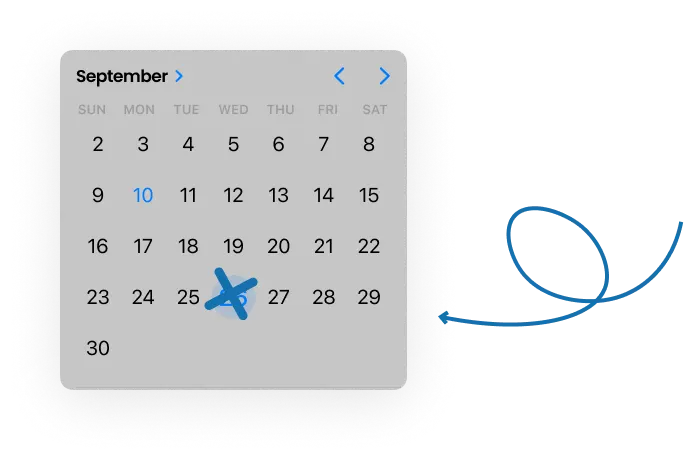
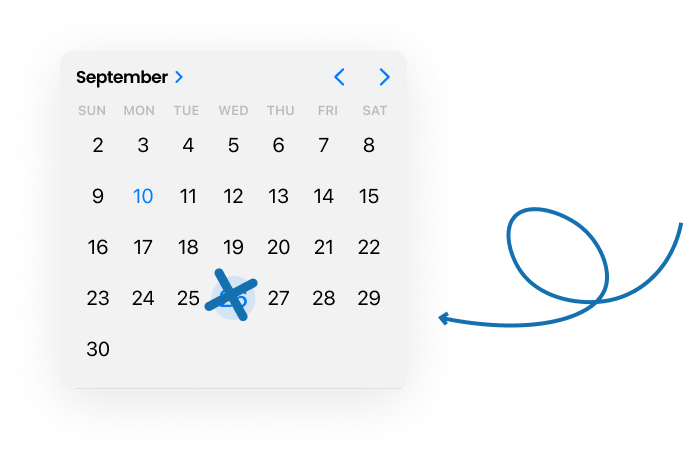
update

diff --git a/src/styles/tailwind.css b/src/styles/tailwind.css
@@ -24,8 +24,15 @@
 
 @theme {
   /* Her tilføjes theme variable // tokens */
+
+  /* fonts */
   --font-main: 'Poppins', sans-serif;
   --font-heading: 'anton', sans-serif;
+
+  /* colors */
+  --color-background: #EAEAEE;
+  --color-primary: #1470AF;
+  --color-secondary: #035EC7;
 
   
 }
@@ -50,12 +57,18 @@
 
 .HollowText {
   color: transparent;             
-  -webkit-text-stroke: 4px #035EC7; 
+  -webkit-text-stroke: 4px var(--color-secondary); 
 
 }
 
 .HollowTextSm {
   color: transparent;             
-  -webkit-text-stroke: 1.5px #035EC7; 
+  -webkit-text-stroke: 1.5px var(--color-secondary); 
+
+}
+
+.HollowTextSmPrimary {
+  color: transparent;             
+  -webkit-text-stroke: 1px var(--color-primary); 
 
 }
